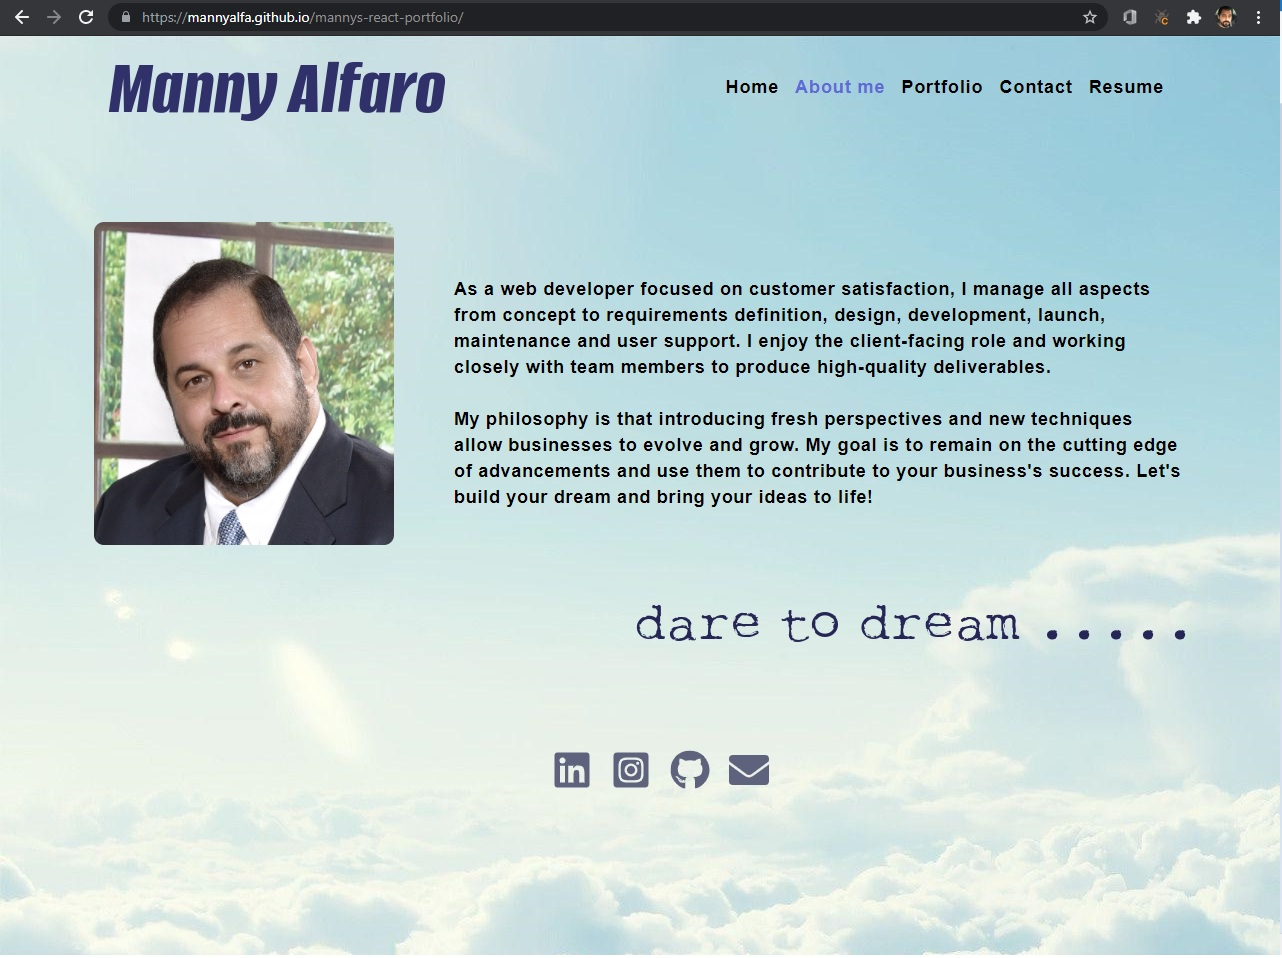
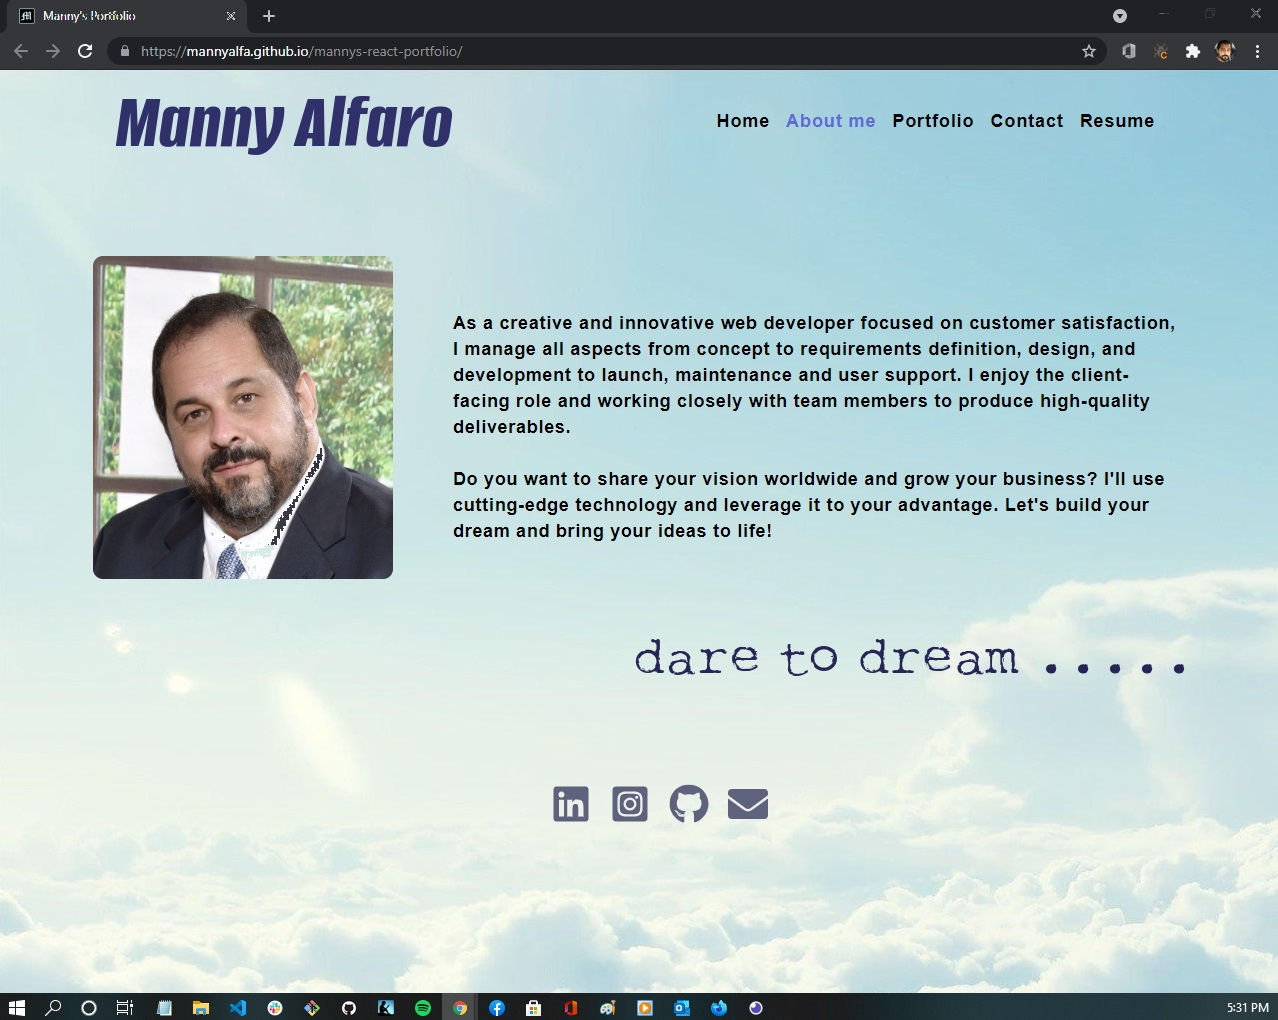
new images

diff --git a/build/static/js/main.8d13c403.chunk.js b/build/static/js/main.8d13c403.chunk.js
@@ -1,0 +1,2 @@
+(this["webpackJsonpmannys-react-portfolio"]=this["webpackJsonpmannys-react-portfolio"]||[]).push([[0],[,,,,,,,,,,,,,,function(e,t,a){"use strict";a.r(t),t.default=a.p+"static/media/resume-alfaro.bece08aa.pdf"},,,function(e,t,a){"use strict";a.r(t),t.default=a.p+"static/media/formal-profile.e048b248.png"},function(e,t,a){"use strict";a.r(t),t.default=a.p+"static/media/resume.690979e4.png"},,,,,,,,,,,,,function(e,t,a){},,function(e,t,a){var n={"./budget-tracker.jpg":34,"./clouds1.jpg":35,"./digital-clock.jpg":36,"./formal-profile.png":17,"./mvc-tech-blog.png":37,"./netget.png":38,"./responsive-pages.jpg":39,"./resume-alfaro.pdf":14,"./resume.png":18,"./screenshot-about.jpg":40,"./screenshot-contact.jpg":41,"./screenshot-home.jpg":42,"./screenshot-portfolio.jpg":43,"./screenshot-resume.jpg":44,"./startifacts.png":45,"./tic-tac-toe.png":46,"./timer.png":47,"./weather-dashboard.png":48,"./work-day-scheduler.png":49};function s(e){var t=i(e);return a(t)}function i(e){if(!a.o(n,e)){var t=new Error("Cannot find module '"+e+"'");throw t.code="MODULE_NOT_FOUND",t}return n[e]}s.keys=function(){return Object.keys(n)},s.resolve=i,e.exports=s,s.id=33},function(e,t,a){"use strict";a.r(t),t.default=a.p+"static/media/budget-tracker.bff8cfe7.jpg"},function(e,t,a){"use strict";a.r(t),t.default=a.p+"static/media/clouds1.f07b4557.jpg"},function(e,t,a){"use strict";a.r(t),t.default=a.p+"static/media/digital-clock.971faf4a.jpg"},function(e,t,a){"use strict";a.r(t),t.default=a.p+"static/media/mvc-tech-blog.8bd119d4.png"},function(e,t,a){"use strict";a.r(t),t.default=a.p+"static/media/netget.9afc4176.png"},function(e,t,a){"use strict";a.r(t),t.default=a.p+"static/media/responsive-pages.2d1bea97.jpg"},function(e,t,a){"use strict";a.r(t),t.default=a.p+"static/media/screenshot-about.fa87ca89.jpg"},function(e,t,a){"use strict";a.r(t),t.default=a.p+"static/media/screenshot-contact.5458d0b7.jpg"},function(e,t,a){"use strict";a.r(t),t.default=a.p+"static/media/screenshot-home.8d4da273.jpg"},function(e,t,a){"use strict";a.r(t),t.default=a.p+"static/media/screenshot-portfolio.97168a40.jpg"},function(e,t,a){"use strict";a.r(t),t.default=a.p+"static/media/screenshot-resume.f6ea5f48.jpg"},function(e,t,a){"use strict";a.r(t),t.default=a.p+"static/media/startifacts.687f4a90.png"},function(e,t,a){"use strict";a.r(t),t.default=a.p+"static/media/tic-tac-toe.febfefbd.png"},function(e,t,a){"use strict";a.r(t),t.default=a.p+"static/media/timer.5688d521.png"},function(e,t,a){"use strict";a.r(t),t.default=a.p+"static/media/weather-dashboard.8f34f53b.png"},function(e,t,a){"use strict";a.r(t),t.default=a.p+"static/media/work-day-scheduler.7d9b9a13.png"},,,function(e,t,a){"use strict";a.r(t);var n=a(1),s=a.n(n),i=a(11),r=a.n(i),c=(a(31),a(16)),l=a(0);var o=function(){return Object(l.jsxs)("wrapper",{children:[Object(l.jsxs)("row",{className:"my-5",style:{display:"flex",alignItems:"center",justifyContent:"space-between"},children:[Object(l.jsx)("img",{src:a(17).default,alt:"Manny Alfaro",id:"about-photo"}),Object(l.jsxs)("p",{id:"narrative",style:{marginLeft:"60px"},children:["As a creative and innovative web developer focused on customer satisfaction, I manage all aspects from concept to requirements definition, design, and development to launch, maintenance and user support. I enjoy the client-facing role and working closely with team members to produce high-quality deliverables.",Object(l.jsx)("br",{}),Object(l.jsx)("br",{}),"Do you want to share your vision worldwide and grow your business? I'll use cutting-edge technology and leverage it to your advantage. Let's build your dream and bring your ideas to life!"]})]}),Object(l.jsx)("row",{className:"my-5",style:{display:"flex",alignItems:"center",justifyContent:"flex-end"},children:Object(l.jsx)("img",{src:"https://fontmeme.com/permalink/210905/707ab8d0461083ab97a1afd31eece860.png",alt:"cloud-background"})})]})},d=a(10);var u=function(e){var t=e.title,n=e.descr,s=e.image,i=e.deployedLink,r=e.repo;return Object(l.jsx)("wrapper",{children:Object(l.jsx)("row",{children:Object(l.jsxs)("div",{style:{width:"350px",display:"flex",flexDirection:"column",alignItems:"center"},children:[Object(l.jsxs)("h4",{children:[Object(l.jsx)("a",{id:"title",href:r,target:"_blank",rel:"noreferrer",children:t}),Object(l.jsx)("a",{href:r,className:"icon",children:Object(l.jsx)(d.b,{size:25})})]}),Object(l.jsxs)("a",{id:"descr",href:i,target:"_blank",rel:"noreferrer",children:[n,Object(l.jsx)("img",{style:{maxWidth:"350px",maxHeight:"250px"},src:a(33)("./".concat(s)).default,alt:"project image",id:"projects"})]})]})})})};var m=function(){return Object(l.jsx)("section",{id:"project-section",style:{display:"flex",justifyContent:"space-evenly",flexWrap:"wrap"},children:[{title:"Startifacts",descr:"Search for sci-fi, anime and fantasy memorabila using MySQL",image:"startifacts.png",deployedLink:"https://startifacts-online.herokuapp.com/index",repo:"https://github.com/Mannyalfa/Startifacts"},{title:"Weather Dashboard",descr:"Get weather forecasts anywhere in the world by using multiple APIs",image:"weather-dashboard.png",deployedLink:"https://mannyalfa.github.io/weather-dashboard/",repo:"https://github.com/Mannyalfa/weather-dashboard"},{title:"MVC Tech Blog",descr:"Post, review and comment using a secure login and cookies",image:"mvc-tech-blog.png",deployedLink:"https://gentle-bastion-78764.herokuapp.com/",repo:"https://github.com/Mannyalfa/mvc-challenge-tech-blog"},{title:"Tic Tac Toe",descr:"JavaScript game with scoring & sound",image:"tic-tac-toe.png",deployedLink:"https://mannyalfa.github.io/tic-tac-toe/",repo:"https://github.com/Mannyalfa/tic-tac-toe"},{title:"Budget Tracker",descr:"A MongoDB app that tabulates & graphs data, can be used offline",image:"budget-tracker.jpg",deployedLink:"https://mannys-budget-tracker.herokuapp.com/",repo:"https://github.com/Mannyalfa/budget-tracker"},{title:"Javascript Digital Clock",descr:"A simple clock using HTML, CSS & JavaScript",image:"digital-clock.jpg",deployedLink:"https://mannyalfa.github.io/simple-digital-clock/",repo:"https://github.com/Mannyalfa/simple-digital-clock"},{title:"IOS-style timer",descr:"My first attempt at a mobile UX/UI application",image:"timer.png",deployedLink:"https://mannyalfa.github.io/ios-style-timer/",repo:"https://github.com/Mannyalfa/ios-style-timer"},{title:"NETGET ISP Finder",descr:"Search for internet service providers nationwide using Google APIs",image:"netget.png",deployedLink:"https://mannyalfa.github.io/netget-isp-finder/",repo:"https://github.com/Mannyalfa/netget-isp-finder"},{title:"Work Day Scheduler",descr:"A saved daily task list using a time-update API ",image:"work-day-scheduler.png",deployedLink:"https://mannyalfa.github.io/work-day-scheduler/",repo:"https://github.com/Mannyalfa/work-day-scheduler"}].map((function(e){return Object(l.jsx)(u,{title:e.title,image:e.image,descr:e.descr,deployedLink:e.deployedLink,repo:e.repo},e.title)}))})},p=a(19),j=a(12),h=a(20),b=a(25),f=a(24),g=a(23),x=a(56),y=a(57),O=a(58),v=a(59),k=a(60),w=function(e){Object(b.a)(a,e);var t=Object(f.a)(a);function a(){var e;Object(j.a)(this,a);for(var n=arguments.length,s=new Array(n),i=0;i<n;i++)s[i]=arguments[i];return(e=t.call.apply(t,[this].concat(s))).state={name:"",email:"",subject:"",message:""},e.handleChange=function(t,a){e.setState(Object(p.a)({},t,a.target.value))},e}return Object(h.a)(a,[{key:"handleSubmit",value:function(e){e.preventDefault();var t=this.state,a=t.name,n=t.email,s=t.subject,i=t.message,r={from_name:n,to_name:a,subject:s,message:i};console.log(a,n,s,i),g.a("service_vy00xqm","template_5vge9ev",r,"user_qEJHGgE97kJUZwpQY5sLd").then((function(e){return console.log(e)})),this.resetForm()}},{key:"resetForm",value:function(){this.setState({name:"",email:"",subject:"",message:""})}},{key:"render",value:function(){return Object(l.jsxs)(l.Fragment,{children:[Object(l.jsx)("h1",{className:"p-heading1",children:"Contact Me"}),Object(l.jsxs)(x.a,{onSubmit:this.handleSubmit.bind(this),children:[Object(l.jsxs)(y.a,{controlId:"formBasicEmail",children:[Object(l.jsx)(O.a,{className:"text-muted",children:"Email address"}),Object(l.jsx)("p",{children:Object(l.jsx)(v.a,{type:"email",name:"email",value:this.state.email,className:"text-primary",onChange:this.handleChange.bind(this,"email"),placeholder:"Enter email"})})]}),Object(l.jsxs)(y.a,{controlId:"formBasicName",children:[Object(l.jsx)(O.a,{className:"text-muted",children:"Name"}),Object(l.jsx)("p",{children:Object(l.jsx)(v.a,{type:"text",name:"name",value:this.state.name,className:"text-primary",onChange:this.handleChange.bind(this,"name"),placeholder:"Name"})})]}),Object(l.jsxs)(y.a,{controlId:"formBasicMessage",children:[Object(l.jsx)(O.a,{className:"text-muted",children:"Message"}),Object(l.jsx)("p",{children:Object(l.jsx)(v.a,{type:"textarea",name:"message",className:"text-primary",value:this.state.message,onChange:this.handleChange.bind(this,"message")})})]}),Object(l.jsx)(k.a,{variant:"primary",type:"submit",children:"Submit"})]})]})}}]),a}(n.Component),C=a(62),S=a(61);var L=function(e){var t=e.tabs,a=void 0===t?[]:t,n=e.setCurrentTab,s=e.currentTab;return Object(l.jsx)(C.a,{children:Object(l.jsx)(S.a,{fluid:!0,children:Object(l.jsxs)("ul",{className:"flex-row",id:"header-tabs",children:[Object(l.jsx)("li",{className:"mx-2"}),a.map((function(e){return Object(l.jsx)("li",{className:"mx-1 ".concat(s.name===e.name&&"navActive"),children:Object(l.jsx)("span",{onClick:function(){n(e)},children:(t=e.name,t.charAt(0).toUpperCase()+t.slice(1))})},e.name);var t}))]})})})};var M=function(e){return Object(l.jsxs)("header",{className:"flex-row px-1",style:{display:"flex",justifyContent:"space-around"},id:"header-row",children:[Object(l.jsx)("h2",{children:Object(l.jsx)("img",{src:"https://fontmeme.com/permalink/210906/d2503ec9fad6b5f2526e61ee80f28d37.png",alt:"Manny Alfaro"})}),Object(l.jsx)(L,{tabs:e.tabs,setCurrentTab:e.setCurrentTab,currentTab:e.currentTab})]})};var N=function(){return Object(l.jsx)("div",{className:"col-lg-12 h-100 d-table",id:"tagline",children:Object(l.jsx)("img",{src:"https://fontmeme.com/permalink/210908/db9e221589ba6d13b3f2229021a7f76d.png",alt:"dare to dream",border:"0",id:"fade-in-image"})})},T=a(14);var I=function(e){return e.tabs,Object(l.jsx)("div",{children:Object(l.jsxs)("div",{style:{display:"flex",justifyContent:"space-around",flexWrap:"wrap"},children:[Object(l.jsxs)("div",{style:{display:"flex",flexDirection:"column",justifyContent:"center",alignItems:"center"},children:[Object(l.jsx)("img",{src:a(18).default,alt:"resume",style:{width:"900px"}}),Object(l.jsx)("br",{}),Object(l.jsx)("a",{href:T.default,download:"Resume",target:"_blank",rel:"noreferrer",children:Object(l.jsx)("button",{children:"Download Resume"})})]}),Object(l.jsxs)("div",{children:[Object(l.jsx)("h1",{id:"skillset",children:"Skillset"}),Object(l.jsxs)("div",{style:{display:"flex"},children:[Object(l.jsxs)("div",{children:[Object(l.jsx)("h3",{children:"Front-End"}),Object(l.jsx)("ul",{children:["HTML","CSS","JavaScript","Bootstrap","Bulma","REACT"].map((function(e){return Object(l.jsx)("li",{children:e})}))})]}),Object(l.jsxs)("div",{children:[Object(l.jsx)("h3",{children:"Back-End"}),Object(l.jsx)("ul",{children:["jQuery","Node.js","Express.js","SQL","Insomnia","MongoDB"].map((function(e){return Object(l.jsx)("li",{children:e})}))})]})]})]})]})})};var E=function(){return Object(l.jsx)("footer",{children:Object(l.jsxs)("ul",{className:"icons",style:{display:"flex",justifyContent:"center",background:"transparent"},children:[Object(l.jsx)("li",{children:Object(l.jsx)("a",{href:"https://www.linkedin.com/in/spud31/",target:"_blank",rel:"noreferrer",children:Object(l.jsx)(d.d,{size:40})})}),Object(l.jsx)("li",{style:{marginLeft:"15px"},children:Object(l.jsx)("a",{href:"https://www.instagram.com/hawkchk6/",target:"_blank",rel:"noreferrer",children:Object(l.jsx)(d.c,{size:40})})}),Object(l.jsx)("li",{style:{marginLeft:"15px"},children:Object(l.jsx)("a",{href:"https://github.com/Mannyalfa",target:"_blank",rel:"noreferrer",children:Object(l.jsx)(d.b,{size:40})})}),Object(l.jsx)("li",{style:{marginLeft:"15px"},children:Object(l.jsx)("a",{href:"mailto:mannyalfa@gmail.com",children:Object(l.jsx)(d.a,{size:40})})})]})})};var A=function(){var e=Object(n.useState)([{name:"home"},{name:"about me"},{name:"portfolio"},{name:"contact"},{name:"resume"}]),t=Object(c.a)(e,1)[0],a=Object(n.useState)(t[0]),s=Object(c.a)(a,2),i=s[0],r=s[1];return Object(l.jsxs)("div",{children:[Object(l.jsx)(M,{currentTab:i,setCurrentTab:r,tabs:t}),Object(l.jsxs)("main",{children:["home"===i.name&&Object(l.jsx)(N,{}),"about me"===i.name&&Object(l.jsx)(o,{}),"portfolio"===i.name&&Object(l.jsx)(m,{}),"contact"===i.name&&Object(l.jsx)(w,{}),"resume"===i.name&&Object(l.jsx)(I,{})]}),Object(l.jsx)(E,{})]})},D=function(e){e&&e instanceof Function&&a.e(3).then(a.bind(null,63)).then((function(t){var a=t.getCLS,n=t.getFID,s=t.getFCP,i=t.getLCP,r=t.getTTFB;a(e),n(e),s(e),i(e),r(e)}))};r.a.render(Object(l.jsx)(s.a.StrictMode,{children:Object(l.jsx)(A,{})}),document.getElementById("root")),D()}],[[52,1,2]]]);
+//# sourceMappingURL=main.8d13c403.chunk.js.map

diff --git a/build/index.html b/build/index.html
@@ -1,1 +1,1 @@
-<!doctype html><html lang="en"><head><meta charset="utf-8"/><link rel="icon" href="/mannys-react-portfolio/favicon.ico"/><meta name="viewport" content="width=device-width,initial-scale=1"/><meta name="theme-color" content="#000000"/><meta name="description" content="Web site created using create-react-app"/><link rel="apple-touch-icon" href="/mannys-react-portfolio/logo192.png"/><link href="https://fonts.googleapis.com/css?family=Roboto:300,400" rel="stylesheet"><link rel="manifest" href="/mannys-react-portfolio/manifest.json"/><title>Manny's Portfolio</title><link href="/mannys-react-portfolio/static/css/main.39e7c8fe.chunk.css" rel="stylesheet"></head><body><noscript>You need to enable JavaScript to run this app.</noscript><div id="root"></div><script>!function(e){function r(r){for(var n,u,i=r[0],c=r[1],l=r[2],s=0,p=[];s<i.length;s++)u=i[s],Object.prototype.hasOwnProperty.call(o,u)&&o[u]&&p.push(o[u][0]),o[u]=0;for(n in c)Object.prototype.hasOwnProperty.call(c,n)&&(e[n]=c[n]);for(f&&f(r);p.length;)p.shift()();return a.push.apply(a,l||[]),t()}function t(){for(var e,r=0;r<a.length;r++){for(var t=a[r],n=!0,i=1;i<t.length;i++){var c=t[i];0!==o[c]&&(n=!1)}n&&(a.splice(r--,1),e=u(u.s=t[0]))}return e}var n={},o={1:0},a=[];function u(r){if(n[r])return n[r].exports;var t=n[r]={i:r,l:!1,exports:{}};return e[r].call(t.exports,t,t.exports,u),t.l=!0,t.exports}u.e=function(e){var r=[],t=o[e];if(0!==t)if(t)r.push(t[2]);else{var n=new Promise((function(r,n){t=o[e]=[r,n]}));r.push(t[2]=n);var a,i=document.createElement("script");i.charset="utf-8",i.timeout=120,u.nc&&i.setAttribute("nonce",u.nc),i.src=function(e){return u.p+"static/js/"+({}[e]||e)+"."+{3:"f7a0d5d3"}[e]+".chunk.js"}(e);var c=new Error;a=function(r){i.onerror=i.onload=null,clearTimeout(l);var t=o[e];if(0!==t){if(t){var n=r&&("load"===r.type?"missing":r.type),a=r&&r.target&&r.target.src;c.message="Loading chunk "+e+" failed.\n("+n+": "+a+")",c.name="ChunkLoadError",c.type=n,c.request=a,t[1](c)}o[e]=void 0}};var l=setTimeout((function(){a({type:"timeout",target:i})}),12e4);i.onerror=i.onload=a,document.head.appendChild(i)}return Promise.all(r)},u.m=e,u.c=n,u.d=function(e,r,t){u.o(e,r)||Object.defineProperty(e,r,{enumerable:!0,get:t})},u.r=function(e){"undefined"!=typeof Symbol&&Symbol.toStringTag&&Object.defineProperty(e,Symbol.toStringTag,{value:"Module"}),Object.defineProperty(e,"__esModule",{value:!0})},u.t=function(e,r){if(1&r&&(e=u(e)),8&r)return e;if(4&r&&"object"==typeof e&&e&&e.__esModule)return e;var t=Object.create(null);if(u.r(t),Object.defineProperty(t,"default",{enumerable:!0,value:e}),2&r&&"string"!=typeof e)for(var n in e)u.d(t,n,function(r){return e[r]}.bind(null,n));return t},u.n=function(e){var r=e&&e.__esModule?function(){return e.default}:function(){return e};return u.d(r,"a",r),r},u.o=function(e,r){return Object.prototype.hasOwnProperty.call(e,r)},u.p="/mannys-react-portfolio/",u.oe=function(e){throw console.error(e),e};var i=this["webpackJsonpmannys-react-portfolio"]=this["webpackJsonpmannys-react-portfolio"]||[],c=i.push.bind(i);i.push=r,i=i.slice();for(var l=0;l<i.length;l++)r(i[l]);var f=c;t()}([])</script><script src="/mannys-react-portfolio/static/js/2.f21eb31a.chunk.js"></script><script src="/mannys-react-portfolio/static/js/main.70ec62b3.chunk.js"></script></body></html>
+<!doctype html><html lang="en"><head><meta charset="utf-8"/><link rel="icon" href="/mannys-react-portfolio/favicon.ico"/><meta name="viewport" content="width=device-width,initial-scale=1"/><meta name="theme-color" content="#000000"/><meta name="description" content="Web site created using create-react-app"/><link rel="apple-touch-icon" href="/mannys-react-portfolio/logo192.png"/><link href="https://fonts.googleapis.com/css?family=Roboto:300,400" rel="stylesheet"><link rel="manifest" href="/mannys-react-portfolio/manifest.json"/><title>Manny's Portfolio</title><link href="/mannys-react-portfolio/static/css/main.39e7c8fe.chunk.css" rel="stylesheet"></head><body><noscript>You need to enable JavaScript to run this app.</noscript><div id="root"></div><script>!function(e){function r(r){for(var n,u,i=r[0],c=r[1],l=r[2],s=0,p=[];s<i.length;s++)u=i[s],Object.prototype.hasOwnProperty.call(o,u)&&o[u]&&p.push(o[u][0]),o[u]=0;for(n in c)Object.prototype.hasOwnProperty.call(c,n)&&(e[n]=c[n]);for(f&&f(r);p.length;)p.shift()();return a.push.apply(a,l||[]),t()}function t(){for(var e,r=0;r<a.length;r++){for(var t=a[r],n=!0,i=1;i<t.length;i++){var c=t[i];0!==o[c]&&(n=!1)}n&&(a.splice(r--,1),e=u(u.s=t[0]))}return e}var n={},o={1:0},a=[];function u(r){if(n[r])return n[r].exports;var t=n[r]={i:r,l:!1,exports:{}};return e[r].call(t.exports,t,t.exports,u),t.l=!0,t.exports}u.e=function(e){var r=[],t=o[e];if(0!==t)if(t)r.push(t[2]);else{var n=new Promise((function(r,n){t=o[e]=[r,n]}));r.push(t[2]=n);var a,i=document.createElement("script");i.charset="utf-8",i.timeout=120,u.nc&&i.setAttribute("nonce",u.nc),i.src=function(e){return u.p+"static/js/"+({}[e]||e)+"."+{3:"f7a0d5d3"}[e]+".chunk.js"}(e);var c=new Error;a=function(r){i.onerror=i.onload=null,clearTimeout(l);var t=o[e];if(0!==t){if(t){var n=r&&("load"===r.type?"missing":r.type),a=r&&r.target&&r.target.src;c.message="Loading chunk "+e+" failed.\n("+n+": "+a+")",c.name="ChunkLoadError",c.type=n,c.request=a,t[1](c)}o[e]=void 0}};var l=setTimeout((function(){a({type:"timeout",target:i})}),12e4);i.onerror=i.onload=a,document.head.appendChild(i)}return Promise.all(r)},u.m=e,u.c=n,u.d=function(e,r,t){u.o(e,r)||Object.defineProperty(e,r,{enumerable:!0,get:t})},u.r=function(e){"undefined"!=typeof Symbol&&Symbol.toStringTag&&Object.defineProperty(e,Symbol.toStringTag,{value:"Module"}),Object.defineProperty(e,"__esModule",{value:!0})},u.t=function(e,r){if(1&r&&(e=u(e)),8&r)return e;if(4&r&&"object"==typeof e&&e&&e.__esModule)return e;var t=Object.create(null);if(u.r(t),Object.defineProperty(t,"default",{enumerable:!0,value:e}),2&r&&"string"!=typeof e)for(var n in e)u.d(t,n,function(r){return e[r]}.bind(null,n));return t},u.n=function(e){var r=e&&e.__esModule?function(){return e.default}:function(){return e};return u.d(r,"a",r),r},u.o=function(e,r){return Object.prototype.hasOwnProperty.call(e,r)},u.p="/mannys-react-portfolio/",u.oe=function(e){throw console.error(e),e};var i=this["webpackJsonpmannys-react-portfolio"]=this["webpackJsonpmannys-react-portfolio"]||[],c=i.push.bind(i);i.push=r,i=i.slice();for(var l=0;l<i.length;l++)r(i[l]);var f=c;t()}([])</script><script src="/mannys-react-portfolio/static/js/2.f21eb31a.chunk.js"></script><script src="/mannys-react-portfolio/static/js/main.8d13c403.chunk.js"></script></body></html>

diff --git a/README.md b/README.md
@@ -11,16 +11,14 @@
 
 5. [Images](#images)
 
-6. [Walkthrough](#walkthrough)
+6. [Repository URL](#repository-url)
 
-7. [Repository URL](#repository-url)
+7. [Deployed URL](#deployed-url)
 
-8. [Deployed URL](#deployed-url)
-
-9. [Credits](#credits)
+8. [Credits](#credits)
 
 ## Description
-A polished professional portfolio for potential employers aand clients. 
+A polished professional portfolio for potential employers and clients. 
 
 USER STORY: 
 
@@ -108,9 +106,6 @@ After cloning the repository, execute the following in the Command Line:
 ![screenshot](https://github.com/Mannyalfa/mannys-react-portfolio/blob/main/src/assets/screenshot-resume.jpg)
 
 ![screenshot](https://github.com/Mannyalfa/mannys-react-portfolio/blob/main/src/assets/responsive-pages.jpg)
-
-## Walkthrough
-https://drive.google.com/file/d/1m2I0Mqh6SMYZdVMA-cnFd8fwriu0uK6V/view?usp=sharing
 
 ## Repository URL
 https://github.com/Mannyalfa/mannys-react-portfolio
